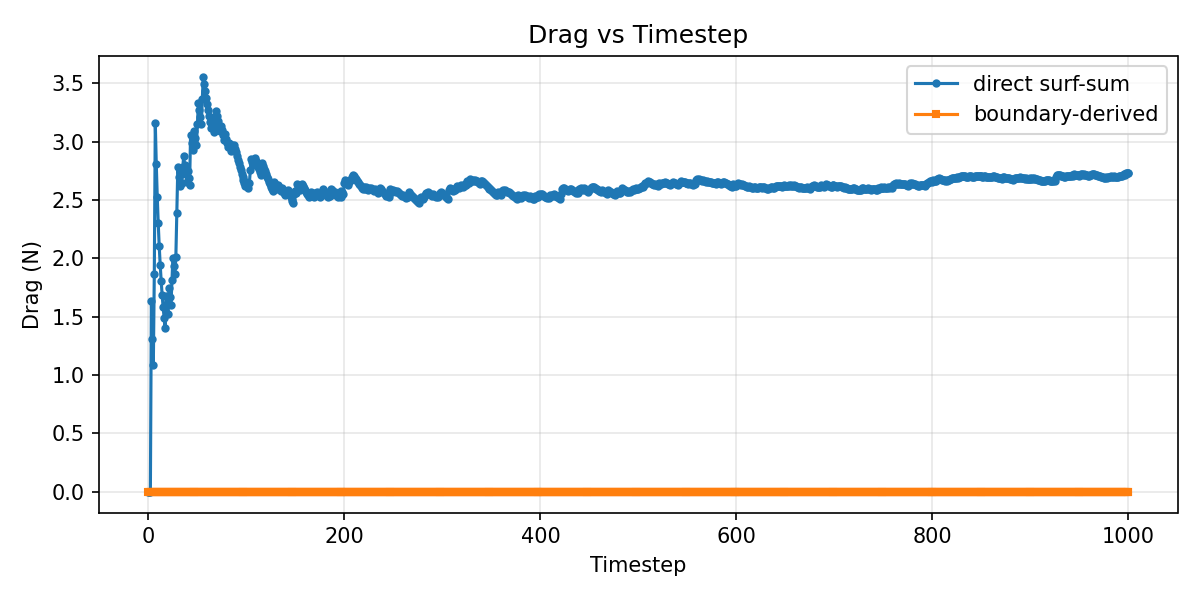
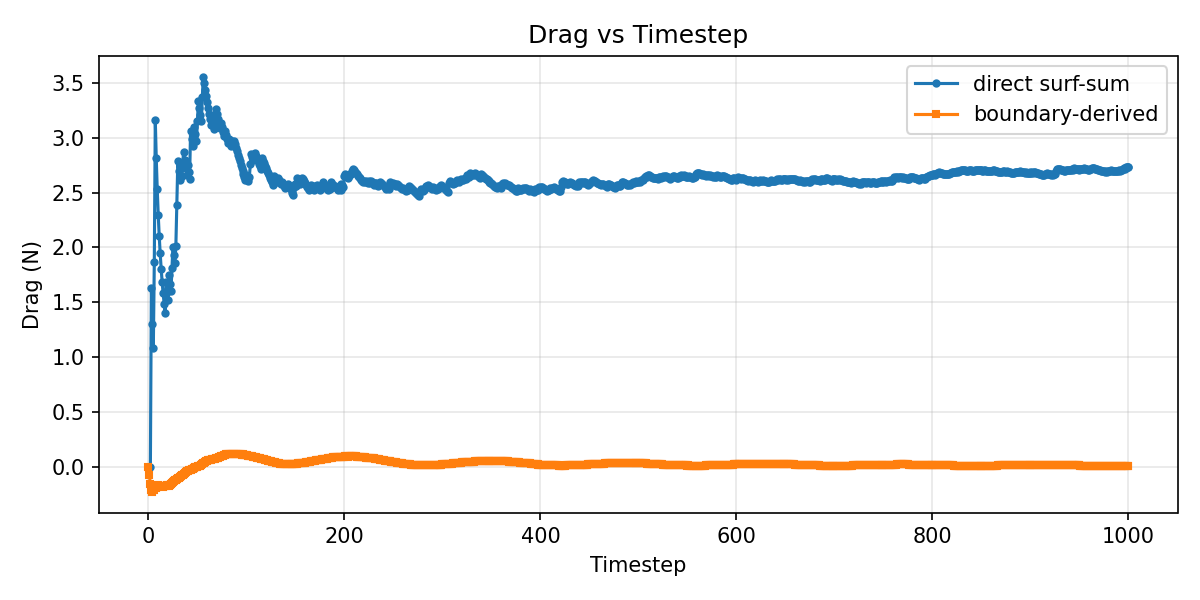
KE/mass flux pressure calc with transparent surf

diff --git a/scripts/plot_drag.py b/scripts/plot_drag.py
@@ -32,20 +32,39 @@ def read_drag(path):
 	return data[:, 0], data[:, 1]
 
 
-def read_flux_file(path):
+def read_pressure_file(path):
 	"""
-	reads a flux data file with timestep, nflux, and momentum flux columns
-	returns (timesteps, nflux, momentum_flux) as float arrays
+	reads a flux data file with timestep, mass flux, and KE flux columns
+	calculates dynamic pressure: P_dynamic = (1/2) * ρ * v² = (1/2) * Φ_m * v = (1/2) * Φ_m * sqrt(2*Φ_KE / Φ_m) = sqrt((Φ_m² * Φ_KE) / 2)
 	"""
 	if not os.path.exists(path):
-		raise FileNotFoundError(f"Flux file not found: {path}")
+		raise FileNotFoundError(f"Pressure file not found: {path}")
 	data = np.loadtxt(path)
 	if data.ndim == 1:
 		# single line
 		data = data.reshape((1, -1))
 	if data.shape[1] < 3:
-		raise ValueError("Expected at least three columns: timestep, nflux, and momentum flux")
-	return data[:, 0], data[:, 1], data[:, 2]
+		raise ValueError("Expected at least three columns: timestep, mass_flux, ke_flux")
+	
+	timesteps = data[:, 0]
+	mass_flux = data[:, 1]  # Φ_m (kg/m²/s)
+	ke_flux = data[:, 2]    # Φ_KE (J/m²/s)
+	
+	# Debug: print flux values
+	print(f"\nDebug for {path}:")
+	print(f"  mass_flux range: [{np.min(mass_flux):.6e}, {np.max(mass_flux):.6e}]")
+	print(f"  ke_flux range: [{np.min(ke_flux):.6e}, {np.max(ke_flux):.6e}]")
+	print(f"  mass_flux mean: {np.mean(mass_flux):.6e}")
+	print(f"  ke_flux mean: {np.mean(ke_flux):.6e}")
+	
+	# Calculate velocity: v = sqrt(2*Φ_KE / Φ_m)
+	# Avoid division by zero
+	with np.errstate(divide='ignore', invalid='ignore'):
+		velocity = np.sqrt(2.0 * ke_flux / mass_flux)
+		# Calculate dynamic pressure: P = sqrt((Φ_m² * Φ_KE) / 2)
+		pressure = np.sqrt((mass_flux**2 * ke_flux) / 2.0)
+	
+	return timesteps, pressure, velocity
 
 
 def read_in_ampt_area(path='in.ampt'):
@@ -86,17 +105,27 @@ def main():
 	t, drag = read_drag(args.file) # timesteps, drag forces
 
 	# boundary-derived drag from separate pressure files
-	xlo_file = 'dumps/xlo_pressure.dat'
-	xhi_file = 'dumps/xhi_pressure.dat'
+	xlo_file = 'dumps/xlo_flux.dat'
+	xhi_file = 'dumps/xhi_flux.dat'
 	
 	# read pressure data from xlo and xhi boundary surfaces
-	t_xlo, p_lo = read_pressure_file(xlo_file)  # timesteps, pressure at xlo
-	t_xhi, p_hi = read_pressure_file(xhi_file)  # timesteps, pressure at xhi
+	t_xlo, p_lo, v_lo = read_pressure_file(xlo_file)  # timesteps, pressure at xlo, velocity at xlo
+	t_xhi, p_hi, v_hi = read_pressure_file(xhi_file)  # timesteps, pressure at xhi, velocity at xhi
 	
 	area = read_in_ampt_area('in.ampt') # cross-sectional area in m^2
 	bdrag = (p_lo - p_hi) * area
 
+	# Calculate average velocities (excluding NaN/inf values from zero flux)
+	v_lo_valid = v_lo[np.isfinite(v_lo)]
+	v_hi_valid = v_hi[np.isfinite(v_hi)]
+	
+	v_lo_avg = np.mean(v_lo_valid) if len(v_lo_valid) > 0 else 0.0
+	v_hi_avg = np.mean(v_hi_valid) if len(v_hi_valid) > 0 else 0.0
+	v_total_avg = (v_lo_avg + v_hi_avg) / 2.0
+
 	print(f"Cross-sectional area (Ly*Lz): {area} m^2")
+	print(f"Average velocity at xlo boundary: {v_lo_avg:.2f} m/s")
+	print(f"Average velocity at xhi boundary: {v_hi_avg:.2f} m/s")
 
 	os.makedirs(os.path.dirname(args.out), exist_ok=True)
 
